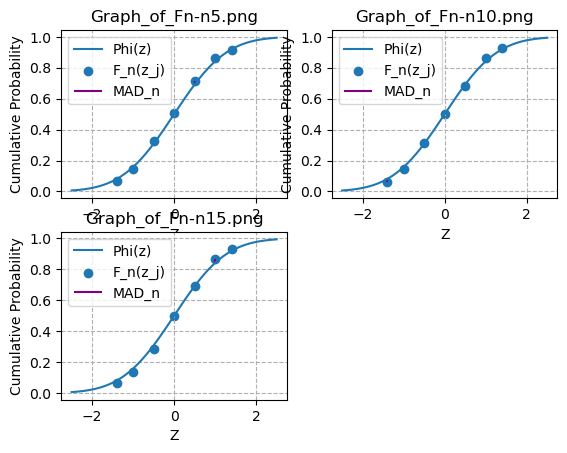
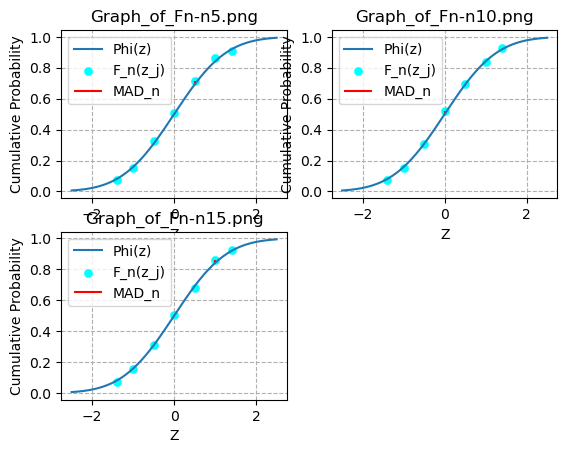
Final Commit. Everything works as it is supposed to.

diff --git a/Project 3/MonteCarlo.py b/Project 3/MonteCarlo.py
@@ -21,7 +21,7 @@ x = np.linspace(0, 350, 1000)  # Axes Values
 
 pdf = a ** 2 * x * np.e ** (-.5 * a ** 2 * x ** 2)
 plt.plot(x, pdf, label='f_X (x)')  # Plot some data on the (implicit) axes.
-plt.xlabel('Drop Distance x')
+plt.xlabel('Drop Distance x (inches)')
 plt.ylabel('Probability Density')
 plt.xlim(0, x.max() * 1.1)
 plt.ylim(0, pdf.max() * 1.1)
@@ -34,7 +34,7 @@ plt.show()
 
 cdf = 1 - np.e ** (-.5 * a ** 2 * x ** 2)
 plt.plot(x, cdf, label='F_X (x)')  # Plot some data on the (implicit) axes.
-plt.xlabel('Drop Distance x')
+plt.xlabel('Drop Distance x (inches)')
 plt.ylabel('Cumulative Probability')
 plt.xlim(0, x.max() * 1.1)
 plt.ylim(0, 1)
@@ -171,13 +171,12 @@ var_x = (4 - np.pi) / (2 * a ** 2)
 
 fig, ax0 = plt.subplots(1)
 
-ax0.plot([1, 2, 3], [1, 2, 3], label='test')
-ax0.plot(abscissa1, ordinate1, label='M_n')
+ax0.plot(abscissa1, ordinate1, 'ro', label='M_n')
 ax0.plot(abscissa1, mu_x_vec, label='Population Mean')
 
 plt.xlabel('Sample Size (n)')
 plt.ylabel('Sample Mean (M_n)')
-plt.title('n vs the Sample Mean', fontsize=12)
+plt.title('Sample Mean vs n', fontsize=12)
 # plt.xlim(-175, 175)
 # plt.ylim(-250, 150)
 plt.grid(linestyle='--')
@@ -187,6 +186,7 @@ plt.show()
 
 # 4.2.5,6,7 may not require any coding, but if they do, they can go here.
 
+# 4.2.7 TODO: do this thing!
 
 # 5) CENTRAL LIMIT THEOREM
 
@@ -209,10 +209,12 @@ for phi_i in phi_abscissa:
 # Variables to store quantities for 5.3
 mean_var_n = []
 AD_n = []
+n_vec2 = np.array([5, 10, 15, 30])
+
 
 n_index = 1
 
-for n in [5, 10, 15, 30]:
+for n in n_vec2:
     abscissa2 = []
     ordinate2 = []
     m_n = []
@@ -223,24 +225,24 @@ for n in [5, 10, 15, 30]:
     MAD_index = 0
 
     # Prepare samples (5.2.1)
-    for k in range(1, K):
+    for k in range(K):
         m_n.append(sample_mean(n))
 
     # 5.2.2.1) calculate the estimates of the mean and variance of M_n
     mean = np.sum(m_n) / K
     variance = np.sum(np.subtract(np.power(m_n, 2), mean ** 2)) / K
 
-    mean_var_n.append([n, mean, variance, mu_x, np.sqrt(var_x) / np.sqrt(n)])
+    mean_var_n.append(np.round([n, mean, np.sqrt(variance), mu_x, np.sqrt(var_x) / np.sqrt(n)], 4))
 
     # 5.2.2.2) transform the sample of M_n into a sample of the standardized random variable Z_n
     z_n = np.divide(np.subtract(m_n, mean), np.sqrt(variance))
 
     # 5.2.2.3) estimate from the sample of Z_n the probabilities of seven events
-    z_j = [-1.4, -1.0, -0.5, 0, 0.5, 1.0, 1.4]
+    z_j = np.array([-1.4, -1.0, -0.5, 0, 0.5, 1.0, 1.4])
 
     AD_j = [n]
-    for j in range(7):
-        # find percentage of z_n values less than or equal to z_j
+    for j in range(z_j.size):
+        # find proportion of z_n values less than or equal to z_j
         counter = 0
         for z in z_n:
             if z <= z_j[j]:
@@ -256,15 +258,15 @@ for n in [5, 10, 15, 30]:
             MAD_y = MAD_j
             MAD_x = z_j[j]
             MAD_index = j
-    AD_j.append(MAD_y)
-    AD_n.append(AD_j)
+    AD_j.append(np.round(MAD_y, 4))
+    AD_n.append(np.round(AD_j, 4))
 
     # 5.2.2.5) Draw a figure showing:
 
-    plt.subplot(2, 2, n_index)
+    plt.subplot(np.ceil(np.sqrt(n_vec2.size)), np.ceil(np.sqrt(n_vec2.size)), n_index)
 
     # i) the seven points {(z_j, F_n(z_j)) : j = 1, ... ,7}
-    plt.scatter(z_j, F_n, label='F_n(z_j)')
+    plt.scatter(z_j, F_n, label='F_n(z_j)', color='cyan', linewidth=0.25 )
 
     # ii) The standard normal cdf phi
     plt.plot(phi_abscissa, phi, label='Phi(z)')
@@ -272,7 +274,7 @@ for n in [5, 10, 15, 30]:
     # iii) The MAD as a highlighted interval of probability (ordinate at point z_j at which it
     # occurs (abscissa)
     plt.vlines(x=MAD_x, ymin=min(normal.cdf(MAD_x), F_n[MAD_index]),
-               ymax=max(normal.cdf(MAD_x), F_n[MAD_index]), colors='purple', label='MAD_n')
+               ymax=max(normal.cdf(MAD_x), F_n[MAD_index]), colors='red', label='MAD_n')
 
     # And make it look nice :)
     plt.xlabel('Z')
@@ -302,17 +304,20 @@ plt.show()
 
 # ii) a table comparing the estimates (mu_n, sigma_n) with the population values
 # (mu_x, sigma_x / sqrt(n) ) for every n.
+
 mean_var_n.insert(0, ['n', 'Sample Mean', 'Sample Standard Deviation', 'Population Mean',
                       'Population Standard Deviation'])
 mean_var_df = pd.DataFrame(mean_var_n)
+# mean_var_df.drop(index=mean_var_df.index[0], axis=0, inplace=True)
 mean_var_df.to_csv('mean_var.csv', index=False)
 
 # iii) a table reporting the absolute difference for every j and n, and the MAD for every n
-AD_n.insert(0, np.array(['n', 'Absolute Difference j = 1', 'Absolute Difference j = 2',
-                         'Absolute Difference j = 3', 'Absolute Difference j = 4',
-                         'Absolute Difference j = 5', 'Absolute Difference j = 6',
-                         'Absolute Difference j = 7', 'MAD_n']))
+AD_n.insert(0, np.array(['n', 'AD j = 1', 'AD j = 2',
+                         'AD j = 3', 'AD j = 4',
+                         'AD j = 5', 'AD j = 6',
+                         'AD j = 7', 'MAD_n']))
 AD_df = pd.DataFrame(AD_n)
+# AD_df.drop(index=AD_df.index[0], axis=0, inplace=True)
 AD_df.to_csv('AD_n.csv', index=False)
 
 # 5.4) and 5.5) should be strictly report.
